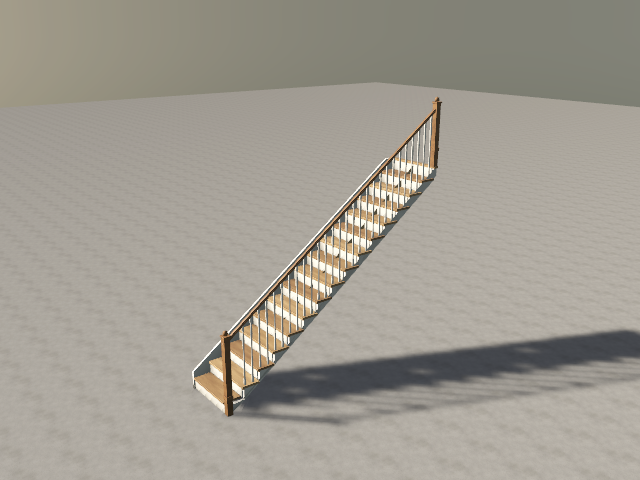
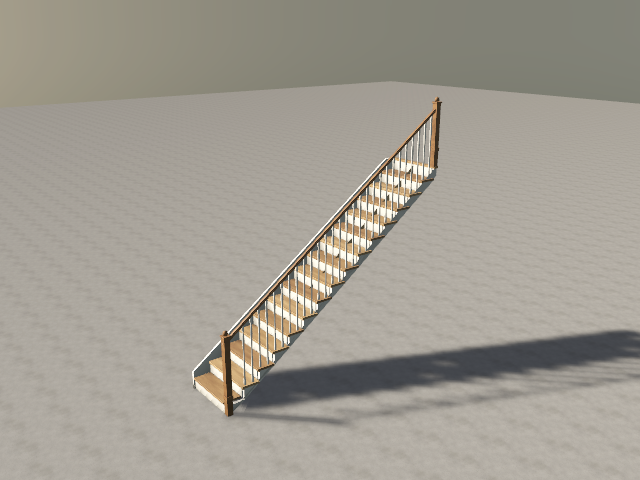
Perf B13: center eelgrass-bed and staircases on X/Z, regenerate thumbnails

diff --git a/Sources/RealLibrary/Structures/Interior/UShapedStaircase.swift b/Sources/RealLibrary/Structures/Interior/UShapedStaircase.swift
@@ -4,7 +4,7 @@ import Foundation
 /// U-shaped staircase with a half landing, 2.1 x 3.0 x 3.6 m footprint and rise. Eleven risers climb 2.06 m along
 /// -Z beside a 0.1 m stair well, a 2.1 x 1.0 m oak landing turns the run, and five more climb back along +Z
 /// (16 risers of 187.5 mm in all). Wall skirts on the outer sides, cut stringers, balusters and an oak handrail
-/// on the well side, corner newel carried to the floor. Origin bottom-front center.
+/// on the well side, corner newel carried to the floor. Origin bottom center.
 public struct UShapedStaircase: RealAsset {
     public static let id = "u-shaped-staircase"
     public static let summary = "U-shaped staircase, 16 risers, 3.0 m rise, half landing: oak treads and landing, painted risers, wall and cut stringers, balusters, handrail."
@@ -50,6 +50,6 @@ public struct UShapedStaircase: RealAsset {
     }
 
     public func build(seed: UInt64) -> LODModel {
-        LODModel(levels: [model(lod: 0, seed: seed), model(lod: 1, seed: seed)], switchDistances: [8])
+        LODModel(levels: [model(lod: 0, seed: seed).centeredXZ(), model(lod: 1, seed: seed).centeredXZ()], switchDistances: [8])
     }
 }

diff --git a/Sources/RealLibrary/Structures/Interior/Staircase.swift b/Sources/RealLibrary/Structures/Interior/Staircase.swift
@@ -4,7 +4,7 @@ import Foundation
 /// Straight residential staircase: 16 risers of 187.5 mm and 15 treads of 260 mm climb 3.0 m floor to floor over
 /// a 4.0 m run. Oak treads with nosing and scotia, painted risers, a closed skirt stringer on the wall side, a cut
 /// stringer and center carriage, turned balusters, an oak handrail at 0.9 m and newels with ball finials on the open
-/// side. Origin bottom-front center; the flight climbs along -Z.
+/// side. Origin bottom center; the flight climbs along -Z.
 public struct Staircase: RealAsset {
     public static let id = "staircase"
     public static let summary = "Straight staircase, 16 risers, 3.0 m rise over 4.0 m: oak treads, painted risers, skirt and cut stringers, balusters, handrail and newels."
@@ -30,6 +30,6 @@ public struct Staircase: RealAsset {
     }
 
     public func build(seed: UInt64) -> LODModel {
-        LODModel(levels: [flight(lod: 0).build(seed: seed), flight(lod: 1).build(seed: seed)], switchDistances: [8])
+        LODModel(levels: [flight(lod: 0).build(seed: seed).centeredXZ(), flight(lod: 1).build(seed: seed).centeredXZ()], switchDistances: [8])
     }
 }

diff --git a/Sources/RealLibrary/Structures/Interior/LShapedStaircase.swift b/Sources/RealLibrary/Structures/Interior/LShapedStaircase.swift
@@ -5,7 +5,7 @@ import Foundation
 /// -Z to a square oak landing; six more turn right along +X to the upper floor (16 risers of 187.5 mm in all, wall
 /// stringers on the outer sides, cut stringers, balusters and an oak handrail on the inside of the turn, a corner
 /// newel carried to the floor). The 0.8 m flight width is what the 16 treads of 0.25 m or more allow in this
-/// footprint. Origin bottom-front center.
+/// footprint. Origin bottom center.
 public struct LShapedStaircase: RealAsset {
     public static let id = "l-shaped-staircase"
     public static let summary = "L-shaped staircase, 16 risers, 3.0 m rise, quarter landing: oak treads and landing, painted risers, wall and cut stringers, balusters, handrail."
@@ -56,6 +56,6 @@ public struct LShapedStaircase: RealAsset {
     }
 
     public func build(seed: UInt64) -> LODModel {
-        LODModel(levels: [model(lod: 0, seed: seed), model(lod: 1, seed: seed)], switchDistances: [8])
+        LODModel(levels: [model(lod: 0, seed: seed).centeredXZ(), model(lod: 1, seed: seed).centeredXZ()], switchDistances: [8])
     }
 }

diff --git a/Sources/RealLibrary/Structures/Interior/StairKit.swift b/Sources/RealLibrary/Structures/Interior/StairKit.swift
@@ -246,3 +246,11 @@ struct StairLanding {
         return m
     }
 }
+
+extension Model {
+    /// Slides the model so its bounds are centered on X/Z (Y unchanged).
+    func centeredXZ() -> Model {
+        let b = bounds, c = (b.min + b.max) / 2
+        return transformed(Xform(translation: V3(-c.x, 0, -c.z)))
+    }
+}

diff --git a/Sources/RealLibrary/Nature/Plants/EelgrassBed.swift b/Sources/RealLibrary/Nature/Plants/EelgrassBed.swift
@@ -50,6 +50,6 @@ public struct EelgrassBed: RealAsset {
             m0.add(s0); m1.add(s1)
         }
         PlantKit.finish(&m0); PlantKit.finish(&m1)
-        return LODModel(levels: [m0, m1], switchDistances: [12])
+        return LODModel(levels: [m0.centeredXZ(), m1.centeredXZ()], switchDistances: [12])
     }
 }

diff --git a/docs/perf-roadmap.md b/docs/perf-roadmap.md
@@ -323,6 +323,7 @@ Items, in order. Each lists the measure that proves it and the sim bench that cl
     Phase 5 gate needs 0 frames > 22 ms. Proof: per-frame log with system timings around the spike.
 12. B12 On-head GPU trace (phase 0 step 1). Sizes phase 4; device only.
 13. B13 Test debt: GPUSmoke overcast sky (0.597 vs < 0.472), AssetContractTests eelgrass-bed centering.
+    - Status: AssetContractTests 4 failures -> 0 (eelgrass-bed, staircase, l-/u-shaped-staircase recentered on X/Z); offline; sim validation pending. GPUSmoke overcast still 0.597 vs < 0.472: clear peak 2.359 (sky glow; 256px misses the sun disk), overcast peak 0.597 is cloud-deck brightness (deckLit x1.7), no sun disk present; threshold 0.2x clear is the mismatch, left unchanged.
     Both fail on HEAD. Staircase centering now passes.
 
 Celebrated sim-proven milestones live in `docs/perf-milestones.json`.

diff --git a/notes/QUEUE.md b/notes/QUEUE.md
@@ -3,3 +3,4 @@ B10 | perf-b10 | https://github.com/hunterh37/RealityHD/pull/94 | boston-common 
 B5 | perf-b5 | https://github.com/hunterh37/RealityHD/pull/95 | docs only; breakdown + items B5a-B5e | none
 B7 | perf-b7 | https://github.com/hunterh37/RealityHD/pull/96 | hoverSwapsRestProxyToParts passes | demo hover highlight on a proxied rig
 B4 | perf-b4 | https://github.com/hunterh37/RealityHD/pull/97 | dropped offline: alpine in-view 2734k->1977k, diff 2.47% (need <1.5M, <0.1%) | none
+B13 | perf-b13 | PRURL | AssetContractTests 4 fails -> 0; GPUSmoke overcast 0.597 vs <0.472 unresolved (deck brightness, not sun) | none
